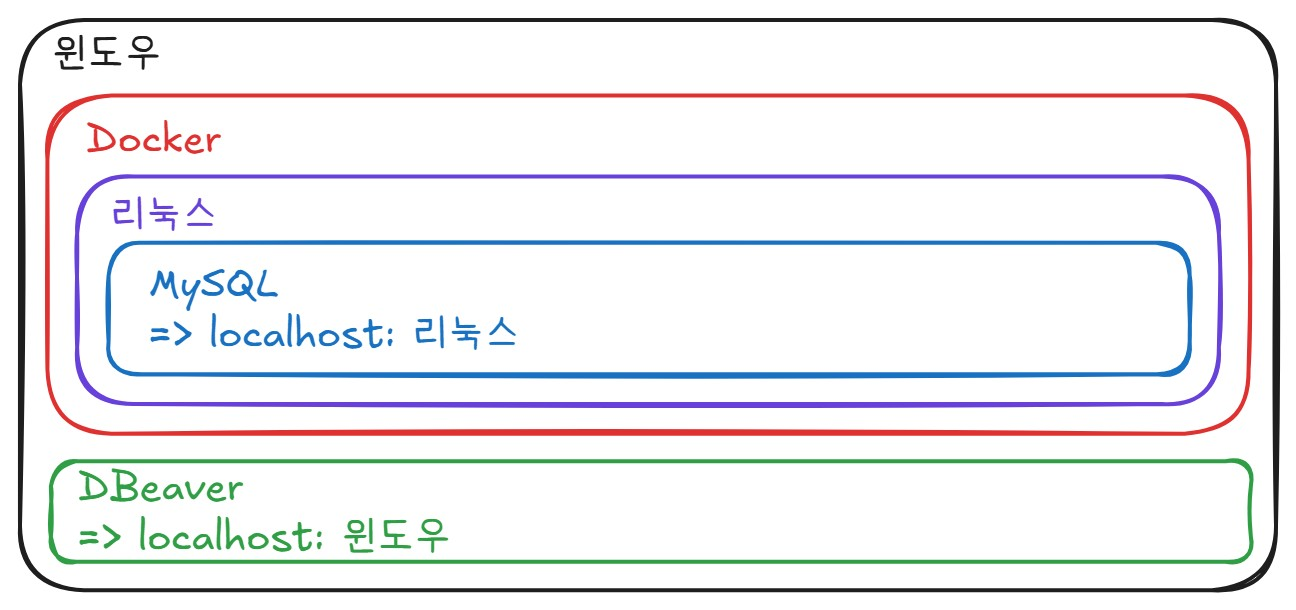
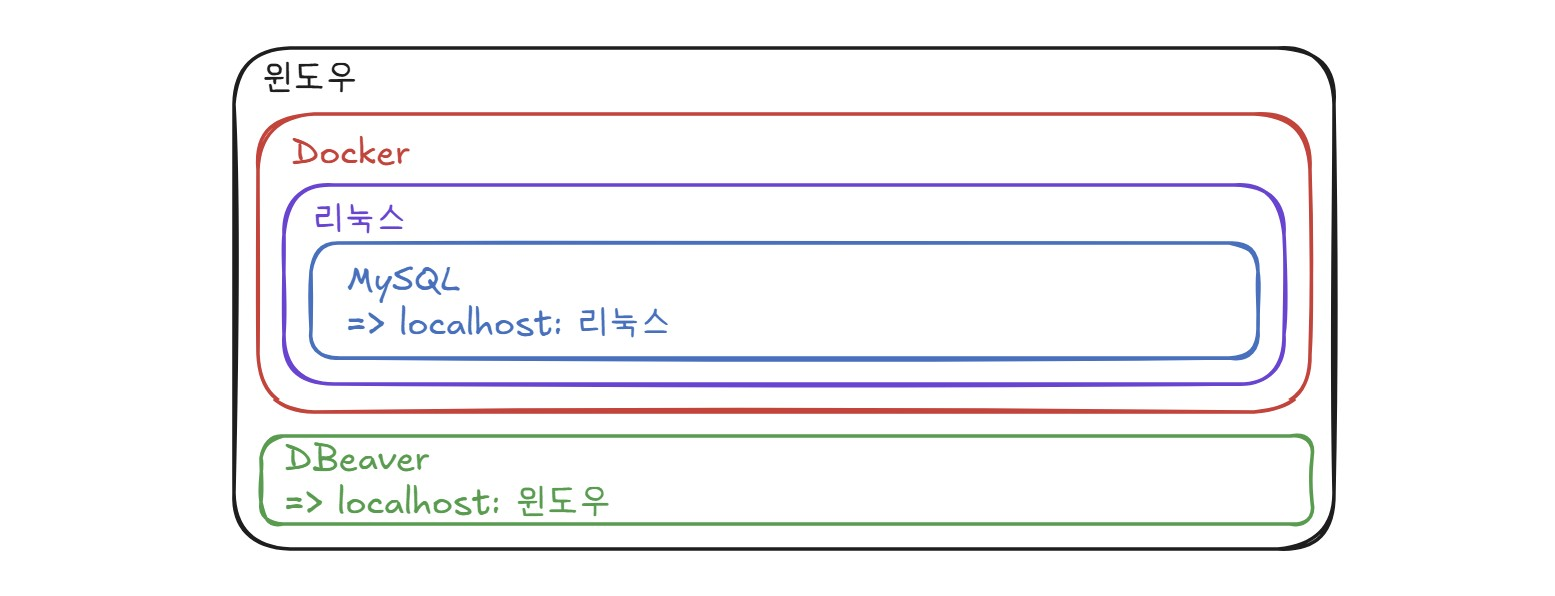
day10

Changed region(s): [[0.0, 0.0302, 0.9877, 0.9966]]

diff --git a/week03/day10_08.20.md b/week03/day10_08.20.md
@@ -340,13 +340,13 @@ DB_CONFIG = {
 
 ### 5.1 MySQL 실행 및 연결 구조
 
-<img src="../assets/day10_mysql.jpg" width="700">
+<img src="../assets/day10_mysql.jpg" width="800">
 
 Windows에서 Docker를 실행하고, **Docker 컨테이너 내부의 Linux 환경에서 MySQL 서버가 실행**된다.
 
 DBeaver는 Windows에서 실행되지만 Docker 내부에서 실행 중인 MySQL 서버에 접속하여 데이터를 조회하고 관리할 수 있다.
 
-<img src="../assets/day10_mysql_2.jpg" width="700">
+<img src="../assets/day10_mysql_2.jpg" width="800">
 
 MySQL 서버에는 DBeaver뿐만 아니라 **Jupyter, Streamlit 등의 프로그램에서도 접속**할 수 있다.
 
